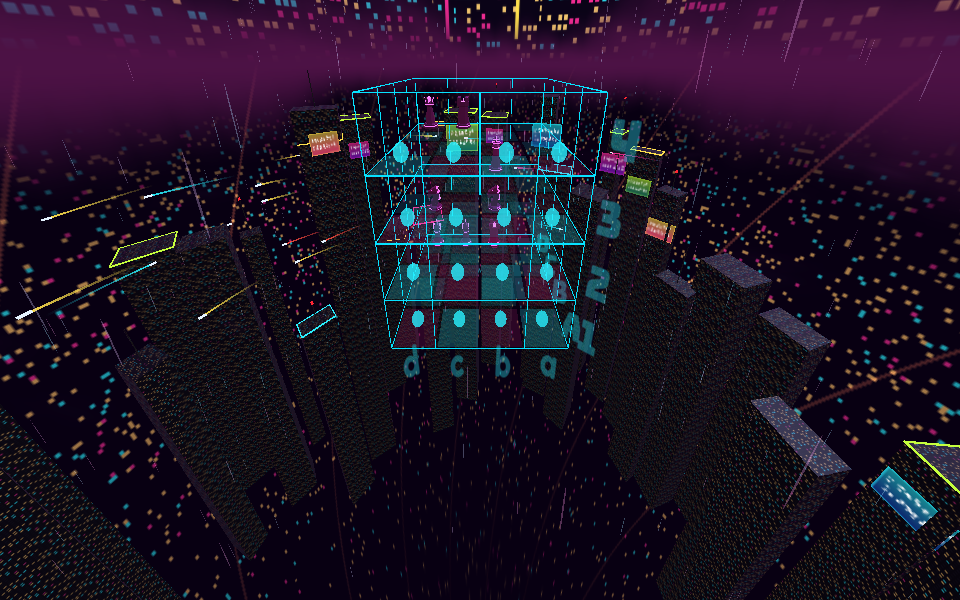
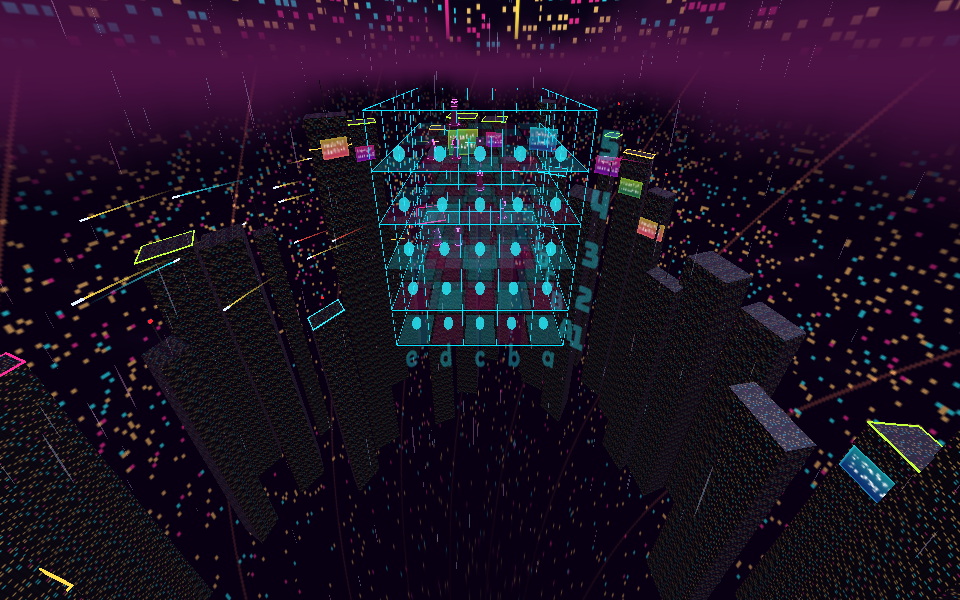
Customize backdrop thumbnails on the 5x5x5 board, and a simulator helper for App Store screenshots

diff --git a/Assets/Scripts/Testing/ShotDemo.cs b/Assets/Scripts/Testing/ShotDemo.cs
@@ -1,0 +1,59 @@
+#if DEVELOPMENT_BUILD || UNITY_EDITOR
+using System.Collections;
+using System.Collections.Generic;
+using UnityEngine;
+
+/// <summary>
+/// Development-only: App Store screenshots on the simulator. A file ShotDemo.txt in the app's
+/// Documents turns it on: the development console stays hidden. With 1 in the file a
+/// robot-vs-robot Quick Play starts by itself and freezes after 10 moves, so there's a game in
+/// progress to capture; with 2, a Quick Play against the robot stops at the setup with a White piece
+/// picked up from the tray. Logs "SHOT DEMO: ready" when the scene is set.
+/// </summary>
+public class ShotDemo : MonoBehaviour
+{
+    [RuntimeInitializeOnLoadMethod(RuntimeInitializeLoadType.AfterSceneLoad)]
+    private static void Boot()
+    {
+        string file = System.IO.Path.Combine(Application.persistentDataPath, "ShotDemo.txt");
+        if (!System.IO.File.Exists(file) || FindFirstObjectByType<ShotDemo>() != null) return;
+        int.TryParse(System.IO.File.ReadAllText(file).Trim(), out int mode);
+        PlayerPrefs.SetInt("HowToPlaySeen", 1);
+        var go = new GameObject("Shot Demo");
+        DontDestroyOnLoad(go);
+        go.AddComponent<ShotDemo>().StartCoroutine(Run(mode));
+    }
+
+    private void Update() => Debug.developerConsoleVisible = false;
+
+    private static IEnumerator Run(int mode)
+    {
+        if (mode != 1 && mode != 2) yield break;
+        yield return new WaitForSeconds(2f);
+        if (SceneController.Instance == null) yield break;
+        if (mode == 2)
+        {
+            SceneController.Instance.QuickStartHumanVsAI(PieceColor.White, AIDifficulty.Medium);
+            while (PlacementManager.Instance == null || !PlacementManager.Instance.PiecesReady) yield return null;
+            yield return new WaitForSeconds(1.5f);
+            PieceTray tray = PieceTray.GetTrayForColor(PieceColor.White);
+            ChessPiece pick = tray != null ? tray.GetComponentInChildren<ChessPiece>() : null;
+            if (pick != null) PlacementManager.Instance.OnTrayPieceClicked(pick);
+            yield return new WaitForSeconds(1f);
+            Debug.Log("SHOT DEMO: ready");
+            yield break;
+        }
+        var config = new GameConfiguration
+        {
+            playerCount = 2, aiPlayerCount = 2, boardSize = BoardSize.Small5x5x5, aiDifficulty = AIDifficulty.Medium,
+            playerTypes = new List<PlayerType> { PlayerType.Computer, PlayerType.Computer },
+        };
+        config.ApplyToLegacyFields();
+        SceneController.Instance.LoadGameScene(config);
+        while (TurnManager.Instance == null || TurnManager.Instance.GetTotalMovesMade() < 10) yield return null;
+        yield return new WaitForSeconds(1.2f);  // let the last move land
+        Time.timeScale = 0f;
+        Debug.Log("SHOT DEMO: ready");
+    }
+}
+#endif
